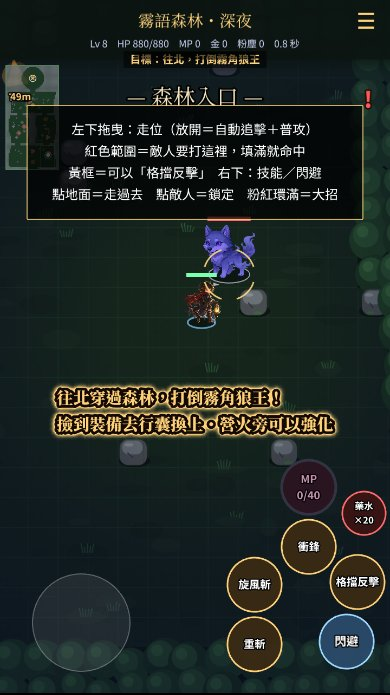
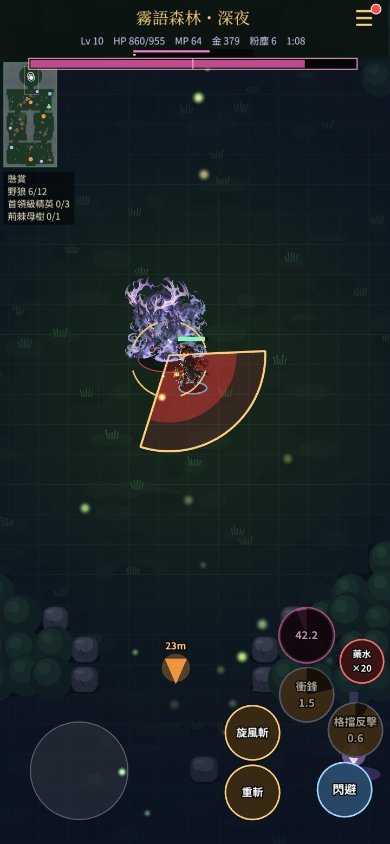
文件：第 51 輪收尾（升級小字移到腳下、數字錯開、深夜暈影、README 截圖 11 張）；NEXT 第十八段 [skip ci]
Claude-Session: https://claude.ai/code/session_01DgXGTuN8MuG1SYry5RwDNJ

diff --git a/docs/NEXT.md b/docs/NEXT.md
@@ -1,6 +1,6 @@
 # 下一步（依優先順序，最上面先做）
 
-> 第 50 輪（10/28 02:50）更新；第 18 輪整理過：過時指示全部刪掉（Jacky 10/25 要求，D-089）。舊內容要查就看 git 歷史或 `docs/DECISIONS.md`。
+> 第 51 輪（10/28 05:05）更新；第 18 輪整理過：過時指示全部刪掉（Jacky 10/25 要求，D-089）。舊內容要查就看 git 歷史或 `docs/DECISIONS.md`。
 > **現在的方向**：單人即時動作戰鬥＋**四張大地圖**（霧語森林→荊棘谷→燼紅裂谷（結局）→星隕高原（通關後挑戰），D-062／063／065／087／114／125／138）。主規格 `docs/design/20-swordsman-and-map.md`。設計文件索引：`docs/design/README.md`。
 > 舊主線（回合制＋自由探索）**已刪除**（D-097）。排程 ⭐ 方向對照：自由走動 ✅（大地圖）、自由買賣 ✅（D-116 行商）、自由點技能 ✅（D-110／112／121）、卡牌小遊戲 ✅（D-127～139 營火燼牌，五位對手）、碰到場景觸發劇情 ✅（D-134 序章、D-137 前世的記憶、D-133 通關演出、**D-159／160 路上的相遇（含護送）**）、**戀愛線依 D-063 停止，不做**。README 不放開發日誌，開發紀錄只寫在 PROGRESS。
 > **加地圖的方法**（D-124）：`src/game/worldMaps.ts` 加一筆（稱呼、配色、decor、next、`postGame`）＋ `maps/<id>.ts`（產生器在 `scripts/gen-*-draft.py`）＋敵人資料＋ `SPRITE`＋ 3 段記憶（`memories.ts`，測試會要求）；`tests/rt-world-maps.test.ts`／`memories.test.ts` 會自動檢查。新 decor 要處理：地面 `paint`（`starD` 範例）、`Ambient` kind、`drawVents`／vent 事件顏色。
@@ -10,7 +10,12 @@
 2. `art-inbox/` 有圖 → `node scripts/import-art.mjs`（D-036；需要 `pip install "rembg[cpu]" --break-system-packages`）。
 3. CI：同一輪連推多個 commit 會互相取消，只看最後一次結果。CI 的 Smoke test 有時要 13 分鐘（第 37 輪；卡在 `playwright install --with-deps` 的 apt），job 上限 15 分鐘——若之後開始逾時，再考慮快取瀏覽器或拿掉 `--with-deps`。**程式 commit 和 `[skip ci]` 的文件 commit 不要一起推**（最上面是 [skip ci] 時整次 push 都不跑）。
 
-## 現況（第 50 輪）
+## 現況（第 51 輪）
+- **截圖腳本 `screenshots/r51.mjs`（gitignored，照這段重寫）**＝`scripts/shot-newsave.mjs` 複製一份，把每段 `pg.evaluate(async ([sec, js]) => { const log = [];` 改成開頭先 `sc().editing = false;`（上一段結尾凍結的畫面，下一段要繼續跑）。凍結截圖的 JS：`sc().flashUntil.clear(); sc().cameras.main.flashEffect.reset(); if (sc().hint) sc().dismissHint(); for (const o of sc().children.list) if (o.type==='Text' && /^(回到營火|黃框|往北穿過|休息中)/.test(o.text||'')) o.setVisible(false); sc().editing=true; 1`。JS 裡要 `await import` 就包成 `(async()=>{ …; return 1 })()`（eval 不吃頂層 await）。**最多 2 個並行**（3～4 個會截圖逾時）。
+  - 截升級：`sc().s.events.push({type:'levelUp', level:2, maxHp:657, atk:36, tick:sc().s.tick}); sc().playEvents(); ff(0.5)` 再凍結。
+  - 截特定精英：第 3 秒傳送到牠旁邊＋`sc().pending.push({type:"target", id:w.id})`，**之後每段都要再推一次 target**（不然 Bot 照 advanceTo 走開）。
+  - 暫停選單：`sc().toggleMenu()`；操作設定：再 `clk("操作設定")`。技能變化存檔：`jg_rt_mistwood: {level:10, skills:{whirlwind:5}, variants:["whirlwind:b"]}`。
+- **升級（D-182）**：標題 y 430 置中大字；數值／技能點小字固定在主角腳下。**傷害數字**經 `numberSlot` 自動往上錯開（新的跳字一律走 `floatNumber` 就好）。
 - **截圖腳本 `screenshots/r50.mjs`（gitignored，照這段重寫）**：r49 的精簡版——`STEPS='[["JS（AsyncFunction 本體，要 return）", 等待ms?], …]' STAGE=地圖id|title LS='{…}' WEAPON=sword|bow|staff node screenshots/r50.mjs 名稱 W H`；有 `sc()`／`texts()`／`clk(字)`（`INC=1` 包含比對）／`ff(秒)`。標題：`STAGE=title`，`sc().cameras.main.fadeEffect.reset(); ff(1); sc().input.emit('pointerdown',{x:270,y:700,worldX:270,worldY:700}); ff(2.5)` 再 reset fade／flash。技能面板：`sc().editing=true; sc().openSkills()`，變化鍵＝`sc().menu.list` 裡 x＝250 且可點的 Text。行囊：`sc().bagSt={bag,equip:{}}; sc().openBag(false)` 後 `INC=1; clk('【武器】霧鋼劍')`、`clk('返回')`。
 - **行囊詳細卡（D-181）**：比較字＝數值下緣＋44，強化區／按鈕跟著比較字走。**升級大字（D-181）**：標題＋小字兩則（自動錯開）。
 - **抉擇／相遇面板由上往下排、整塊置中（D-180）**：說明下緣＋70 接選項卡；新抉擇說明 ≤ 5 行。**回禮卡／記憶卡** 544 寬靠右（左緣約 160），回禮一行 ≤ 21 字。畫面外箭頭也避開懸賞板（`bountyTxt` bounds）。行商詳細卡高度跟行數。
@@ -64,19 +69,20 @@
 ### 下一輪從這裡開始（依序）
 1. **Jacky 有回覆就照他的答案先做**（FOR_JACKY 第 4～21 題）。
 2. **相遇（選做，先等 Jacky 回 FOR_JACKY 第 21 題）**：他說「相遇減少」就把每張圖砍回一個（刪 `ENCOUNTERS` 第 4～7 筆、改測試數量、README）。沒回覆就**先不要再加**。**不要**把抉擇／相遇做成永久戰鬥加成（D-157）。
-3. **（下一輪建議主工作）「第一眼」第十七段**：①README 還有舊介面的截圖（開場大字「往北穿過森林…」兩行、舊 HUD）：24（碎石林道）、29（操作設定）、30（深夜）、31（暫停）、32、35、37、40、41、42、43、45、48、59——挑 README 上半看得到的先換（390×844、`shot-newsave`＋`flashUntil.clear()`；要藏開場大字就把 `text.startsWith("往北穿過")` 的 Text `setVisible(false)`）；②開場說明大字在 390×844 會蓋住營火旁的行商（教學，第 50 輪判斷不改；真人嫌擠再往上挪）；③升級新大字（D-181）在 360×640 實際升級時看一次（第 50 輪只在 390×844 截到）；④有空再看暫停選單、操作設定在 360×800。只修看得到的問題。
+3. **（下一輪建議主工作）「第一眼」第十八段**：①README 還剩舊介面截圖：40（營火旁旅商，9:16 舊 HUD）、42（為你挑選）、43（霜旋：第 51 輪用技能變化存檔跑 44 秒沒截到冰凍瞬間，改成直接 `sc().pending.push({type:'skill', id:'whirlwind'})` 在狼群旁放）、48（燒死了：把玩家傳到燼紅裂谷熔岩口旁、怪跟著時快轉）；②荊棘谷新存檔開場（長弓）同時出「毒沼！…快走出去」「見切射擊！」＋說明框，畫面很擠（第 51 輪 C-01 截到）——看是否把「毒沼」提示延後到說明框收起；③有空再看行囊、記憶本在 360×800。只修看得到的問題。
+   - 「撞牆暈眩！趁現在！」任何衝鋒撞牆的怪（迷霧巡守等）都會跳，第 51 輪看過程式：是同一個機制、提示有用，不改。
+   - 第 51 輪已看完：升級（360×640、390×844）、暫停選單／操作設定（390×844、360×800）、深夜森林、荊棘母樹、迷霧巡守、荊棘谷營地、燼紅裂谷入口、行商買的頁。
    - 第 50 輪已看完：技能點面板＋變化（長劍／法杖 390×844、長弓 360×640）、行囊詳細卡三種稀有度（兩種螢幕）、標題（有紀錄的存檔 540×960）、新存檔南營地、升級（390×844）。
-   - 第 49 輪已看完：行商買／賣的詳細卡（390×844、360×640）、相遇面板（獵人、盜賊）、三個抉擇（狼后、岩王）、回禮卡（獵人、騾子、盜賊）、前世的記憶卡、長弓新存檔 70 秒（390×844）、法杖新存檔 40 秒（360×640）、劍 44 秒。
-   - 第 48 輪以前已看完的見 git 歷史（NEXT 第 49 輪版）。
-   - 快轉截圖的已知假象：受擊閃白 70ms 在低 fps 下幾乎每張都白；截圖前那 0.7 秒遊戲是即時跑的；相機淡入／閃光不推進；傳送後鏡頭還沒跟上（主角不在畫面中央）。新存檔劍的第一次升級在第 35 秒前後（390×844；360×640 時間不同）。
-   - Bot 不會去行商／點技能點；升級大字已寫「技能點 +1（☰ → 技能點）」，☰ 有紅點，等真人回饋。
+   - 第 49 輪以前已看完的見 git 歷史（NEXT 第 50 輪版）。
+   - 快轉截圖的已知假象：受擊閃白 70ms 在低 fps 下幾乎每張都白；截圖前那 0.7 秒遊戲是即時跑的；相機淡入／閃光不推進；傳送後鏡頭還沒跟上（主角不在畫面中央）。新存檔劍的第一次升級在第 32～35 秒前後。
+   - Bot 不會去行商／點技能點；升級小字已寫「技能點 +1（☰ → 技能點）」，☰ 有紅點，等真人回饋。
    - **手機效能**：第 44 輪抽查過 JS（p50 約 1ms、p95 2.5～5.9ms），GPU 要等 Jacky 真機。
-4. **README 截圖（選做）**：第 49 輪換了 22、23、26、27、77、78、79；第 50 輪換了 01、25、28；其餘見第 3 項①。
+4. **README 截圖（選做）**：第 49 輪換了 22、23、26、27、77、78、79；第 50 輪 01、25、28；第 51 輪 24、28、29、30、31、32、35、37、41、45、59；其餘見第 3 項①。
 5. **打磨期（11/4 起功能凍結）之前**：新手引導第 35 輪看過程式，真人回饋再調。旅商／燼牌對手烘成貼圖**不做**。README 舊截圖 9:16 有黑邊，可接受。
 6. **長弓／法杖的主角圖（選做）**：拿弓／拿杖的 Q 版圖（ART_REQUESTS，GPT 只剩 1，FOR_JACKY 第 17／19 題問）；真機聽 `SFX.bowShot`／`magicBolt`／`timeStop`／`voidOpen`。**不要再試「Bot 放風箏」**（D-148）。
 7. **星隕高原第三輪（選做）**：還要更好就等 Jacky 回 FOR_JACKY 第 15 題排 GPT 圖。
 8. **數值（等真人回饋）**：巡守太硬 → `mist_warden` HP 1050→900；巡獵者 1400→1200；岩王太難 → 6000／35（D-136）；守望者太難 → 8200→7400（D-138）；星蝕狼太硬 → 3600→3000（D-144）；長弓太強 → `ARCHER.atk` 31→30 或 HP 540→500（看 3 個種子以上再改）；長弓變化二太強 → 灼燒 30→25%、中毒 20→15%（D-149）；法杖太強 → `MAGE` HP 540→500 會讓通關機器人慢一倍（D-152），先降攻擊 33→31；抉擇的結晶 3／4／5 或折扣 10% 若真人覺得不平衡再調（`choices.ts`）。
-9. PROGRESS 第 50 輪後約 235 行；超過 300 行時把第 42～47 輪合併成每日摘要。
+9. PROGRESS 第 51 輪後約 250 行；超過 300 行時把第 42～47 輪合併成每日摘要。
 
 ## 其他（空檔再做）
 - 操作設定後續：搖桿要不要「跟著手指」或固定、按鈕透明度（等 Jacky 回覆）。
@@ -86,7 +92,7 @@
 - 舊試玩小關卡（七關）只留給 ☰ 換關與模擬器；不要再加新的小關卡。
 
 ## 驗證小抄
-- **commit 前一定要** `npm run build`（含 tsc）＋ `npx vitest run --exclude 'tests/zz-*'`（目前 322 項，約 1 分鐘；如果突然變很久，多半是某個 Bot 迴圈打轉到上限）。
+- **commit 前一定要** `npm run build`（含 tsc）＋ `npx vitest run --exclude 'tests/zz-*'`（目前 325 項，約 1 分鐘；如果突然變很久，多半是某個 Bot 迴圈打轉到上限）。
 - 場景檔不要寫出 `{ gold: …}`／`.gold +=` 這種字樣：`tests/game-api.test.ts` 會掃 `src/game/**`（獨立紀錄裡的金幣欄位因此叫 `coin`）。
 - **舊關卡雜湊比對**（核心改動必做）——**第 26 輪起的做法**：範本存在 `scripts/zz-hash.template.ts.txt`（90 場），複製成 `tests/zz-hash.test.ts`；`git worktree add /tmp/claude-0/old <本輪開頭 commit>`＋`ln -s $PWD/node_modules /tmp/claude-0/old/node_modules`，兩邊各跑一次（`HASH_OUT=/tmp/claude-0/hash-old.txt` / `hash-new.txt`）再 `diff`，最後 `git worktree remove --force`（`tests/zz-hash.test.ts` 不在 git，新 session 照範本複製）。荊棘谷改動另跑 `tests/rt-thornvale.test.ts`。
 - `RUNS=60 npm run sim:rt`（刷怪關會略過）；霧語森林測試 `tests/rt-mistwood.test.ts`（含 15 分鐘耐久）。

diff --git a/docs/DECISIONS.md b/docs/DECISIONS.md
@@ -2,6 +2,15 @@
 
 > 格式：編號、日期（台北）、決策、理由、替代方案。新的放最上面。
 
+## D-182 2026-10-28 第一眼第十七段：升級小字移到腳下、數字錯開、深夜再暗一點、暫停選單金幣、操作設定按鈕
+- **升級**（D-181 續）：360×640 時主角在畫面 y≈580，D-181 的「HP・攻擊＋技能點」小字（y≈530）剛好蓋住主角與頭上的傷害數字。改成固定在主角腳下 `sy(p.y)+130`（夾在 560～GAME_HEIGHT−520，x 偏 1px＝不排隊）；標題仍是 y 430 置中大字。
+- **傷害數字錯開**（`fx/numberSlot.ts`）：同一刻並排打中兩隻怪（見切射擊打兩朵菇），兩個「105」黏成「105105」。新數字若和 350ms 內跳出的數字框重疊就往上疊一格（最多 3 層）；場景重啟時間倒退會清空。測試 `tests/number-slot.test.ts`。
+- **深夜暈影**：中心透明區不變，0.28 半徑 40→50%、0.5 半徑 58→68%、外緣 66→74%。以前深夜和白天截圖幾乎分不出來；預告外框本來就畫在暈影上（D-103），不影響閃躲。
+- **暫停選單「手上金幣」**：以前只讀存檔（比 HUD 少「這次撿到還沒存的」），改成和 HUD 共用 `coinNow()`。
+- **下一個目標**：暴怒已經開著時改成「打倒暴怒的狼王（解鎖深夜的森林）」。
+- **操作設定**：「全部恢復預設／完成」在長螢幕往下 `TALL×0.45`（和燼牌 `btnDy` 一樣）。
+- 替代：升級小字縮小留在原位——還是會蓋到 360×640 的主角，不採用。
+
 ## D-181 2026-10-28 第一眼第十六段：行囊詳細卡跟著行數收、升級大字拆兩則
 - **行囊裝備詳細卡**（`rtBagPanel.ts`）：以前比較字固定 y 10、強化 60～114、按鈕 170，普通裝只有 1 行數值時中間空約 200px。改成比較字＝數值下緣＋44（最高 −150）、強化區照原本相對距離（＋50／＋75／＋92／＋104）、按鈕＝比較字＋160（沒有強化區＋90）、卡片下緣＝按鈕＋50。和行商（D-180）同樣做法。
 - **升級**：以前「等級提升！Lv N\n技能點 +1（☰ → 技能點）」整則 54px，第二行剛好蓋住主角頭上的「HP・攻擊」飄字（390×844 截到）。改成標題一行 54px（y 430）＋「HP・攻擊\n技能點 +1」一則 30px 大字（y 500，停 1.3 秒），兩則都走置中大字的自動錯開（D-162）；拿掉主角頭上的飄字。

diff --git a/docs/PROGRESS.md b/docs/PROGRESS.md
@@ -1,5 +1,21 @@
 # 進度紀錄（新的在最上面）
 
+## 2026-10-28 04:14–05:05（台北）第 51 輪 — 「第一眼」第十七段：升級小字、數字錯開、深夜、README 截圖 9 張（D-182）
+**背景**：沒有 Issue、art-inbox 空、FOR_JACKY 沒有新回覆、CI 全綠（第 50 輪最後的 36c0445）。照 NEXT 第 3 項。`npm ci` 第一次 ECONNRESET，重跑就好。
+
+**做了什麼**
+- **升級小字**：360×640 實際升級時「HP・攻擊＋技能點」蓋住主角與頭上的傷害數字 → 移到主角腳下（兩種螢幕都截圖確認）。
+- **傷害數字錯開**：荊棘谷截到「105105」（兩隻菇同時吃到 105）→ 350ms 內重疊的數字往上疊一層；純函式＋3 條測試。
+- **深夜暈影再暗一點**（截圖前後對照）；**暫停選單手上金幣**和 HUD 不一致（40 vs 15）→ 共用算法；**下一個目標**在暴怒已開時不再說「☰ 開啟」；**操作設定**底部按鈕在長螢幕往下。
+- README 截圖換 24（石堆間旋風斬）、28（新升級）、29（操作設定）、30（深夜狼王）、31（暫停選單，暴怒開）、32（荊棘母樹毒刺預告）、35（荊棘谷營地與毒沼）、37（行商）、41（迷霧巡守衝鋒）、45（燼紅裂谷熔岩口）、59（長螢幕格擋）；24／30／31 的說明文字跟著改。
+- 360×800 看過暫停選單、操作設定，沒問題。
+
+**驗證**：每次提交前 build＋`npx vitest run --exclude 'tests/zz-*'`（325 項全過）。核心沒動（沒跑 stateHash）。每項改動都重截圖看過。
+
+**問題**：同時開 3～4 個 Playwright 截圖會 `page.screenshot` 逾時，最多 2 個並行。傳送玩家後 Bot 會照 `advanceTo` 走開，要截特定精英得每段 `pending.push({type:'target'})`。
+
+**「好玩嗎？」**：升級那一下看得到自己正在打的怪；多目標的反擊數字看得懂；深夜終於有「只剩身邊的光」的感覺。
+
 ## 2026-10-28 02:15–02:50（台北）第 50 輪 — 「第一眼」第十六段：行囊詳細卡、升級大字、技能變化面板、README 截圖 01／25／28（D-181）
 **背景**：沒有 Issue、art-inbox 空、FOR_JACKY 沒有新回覆、CI 全綠（第 49 輪最後的 edfa09c）。照 NEXT 第 3 項（第十六段）。
 

diff --git a/README.md b/README.md
@@ -56,9 +56,9 @@
 | ![霧語森林](docs/screenshots/26-mistwood.jpg) | ![狼王](docs/screenshots/23-realtime-boss.jpg) | ![即時戰鬥](docs/screenshots/22-realtime.jpg) |
 | **行囊（裝備圖示、▲ 比較好）** | **等級提升** | **操作設定（改鍵、左手、按鈕位置）** |
 | ![行囊](docs/screenshots/27-rt-bag.jpg) | ![升級](docs/screenshots/28-rt-levelup.jpg) | ![操作設定](docs/screenshots/29-rt-controls.jpg) |
-| **營火（怪不追進來、休息與復活）** | **繞石尋路、拉怪、大招與藥水** | **標題** |
+| **營火（怪不追進來、休息與復活）** | **石堆間旋風斬清狼群** | **標題** |
 | ![營火](docs/screenshots/25-camp-clearing.jpg) | ![碎石林道](docs/screenshots/24-rock-grove.jpg) | ![標題](docs/screenshots/01-title.jpg) |
-| **深夜的森林＋霧影狼** | **狼王暴怒開關（☰）** | **荊棘母樹** |
+| **深夜的森林：只剩身邊的光（狼王）** | **暫停選單：暴怒開關、紀錄、換武器** | **荊棘母樹** |
 | ![深夜](docs/screenshots/30-rt-night.jpg) | ![暴怒](docs/screenshots/31-rt-fury.jpg) | ![荊棘母樹](docs/screenshots/32-thorn-mother.jpg) |
 | **技能變化（滿 5 級換招）** | **星落一閃** | **荊棘谷・毒沼** |
 | ![技能變化](docs/screenshots/33-skill-variants.jpg) | ![星落一閃](docs/screenshots/34-starfall.jpg) | ![荊棘谷](docs/screenshots/35-thornvale-marsh.jpg) |
